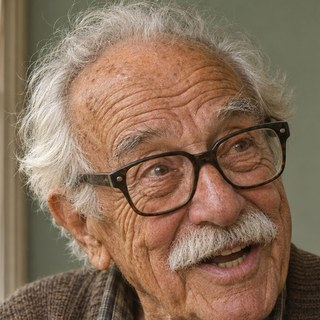
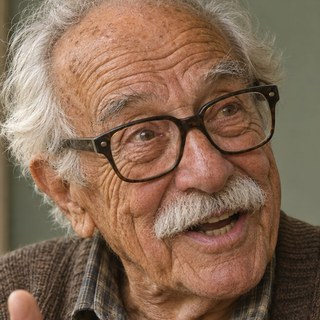
Daniel's circle is centred on his face, not his hair
The crop was centred on the head including hair, so the face sat low.

diff --git a/index.html b/index.html
@@ -80,7 +80,7 @@
     <div class="colB">
       <div class="fig">
         <div class="frame" style="aspect-ratio:4/5"><img src="assets/p1975.jpg" alt="A faded 1975 snapshot: Daniel holding his small daughter Rosa on a porch step, beside Marta and her mother"></div>
-        <span class="ringed" style="left:29.8%;top:22.8%;width:22%;aspect-ratio:1"></span>
+        <span class="ringed" style="left:29.4%;top:26.2%;width:22%;aspect-ratio:1"></span>
         <div class="float" style="left:-12%;bottom:-9%;max-width:340px">
           <b>Is this Daniel?</b>
           <div class="who" style="margin-bottom:14px">Only if you turn face matching on</div>

diff --git a/hero.js b/hero.js
@@ -15,7 +15,7 @@
   /* face centre (fx, fy) and head width (ff) as fractions of each 4:5 print */
   var FACES = {
     p1952: { src: "assets/p1952.jpg", fx: 0.387, fy: 0.279, ff: 0.26 },
-    p1975: { src: "assets/p1975.jpg", fx: 0.298, fy: 0.228, ff: 0.29 },
+    p1975: { src: "assets/p1975.jpg", fx: 0.294, fy: 0.262, ff: 0.23 },
     p1994: { src: "assets/p1994.jpg", fx: 0.41, fy: 0.327, ff: 0.3 },
     p2008: { src: "assets/p2008.jpg", fx: 0.604, fy: 0.289, ff: 0.22 },
     p2025: { src: "assets/p2025.jpg", fx: 0.601, fy: 0.228, ff: 0.28 }
